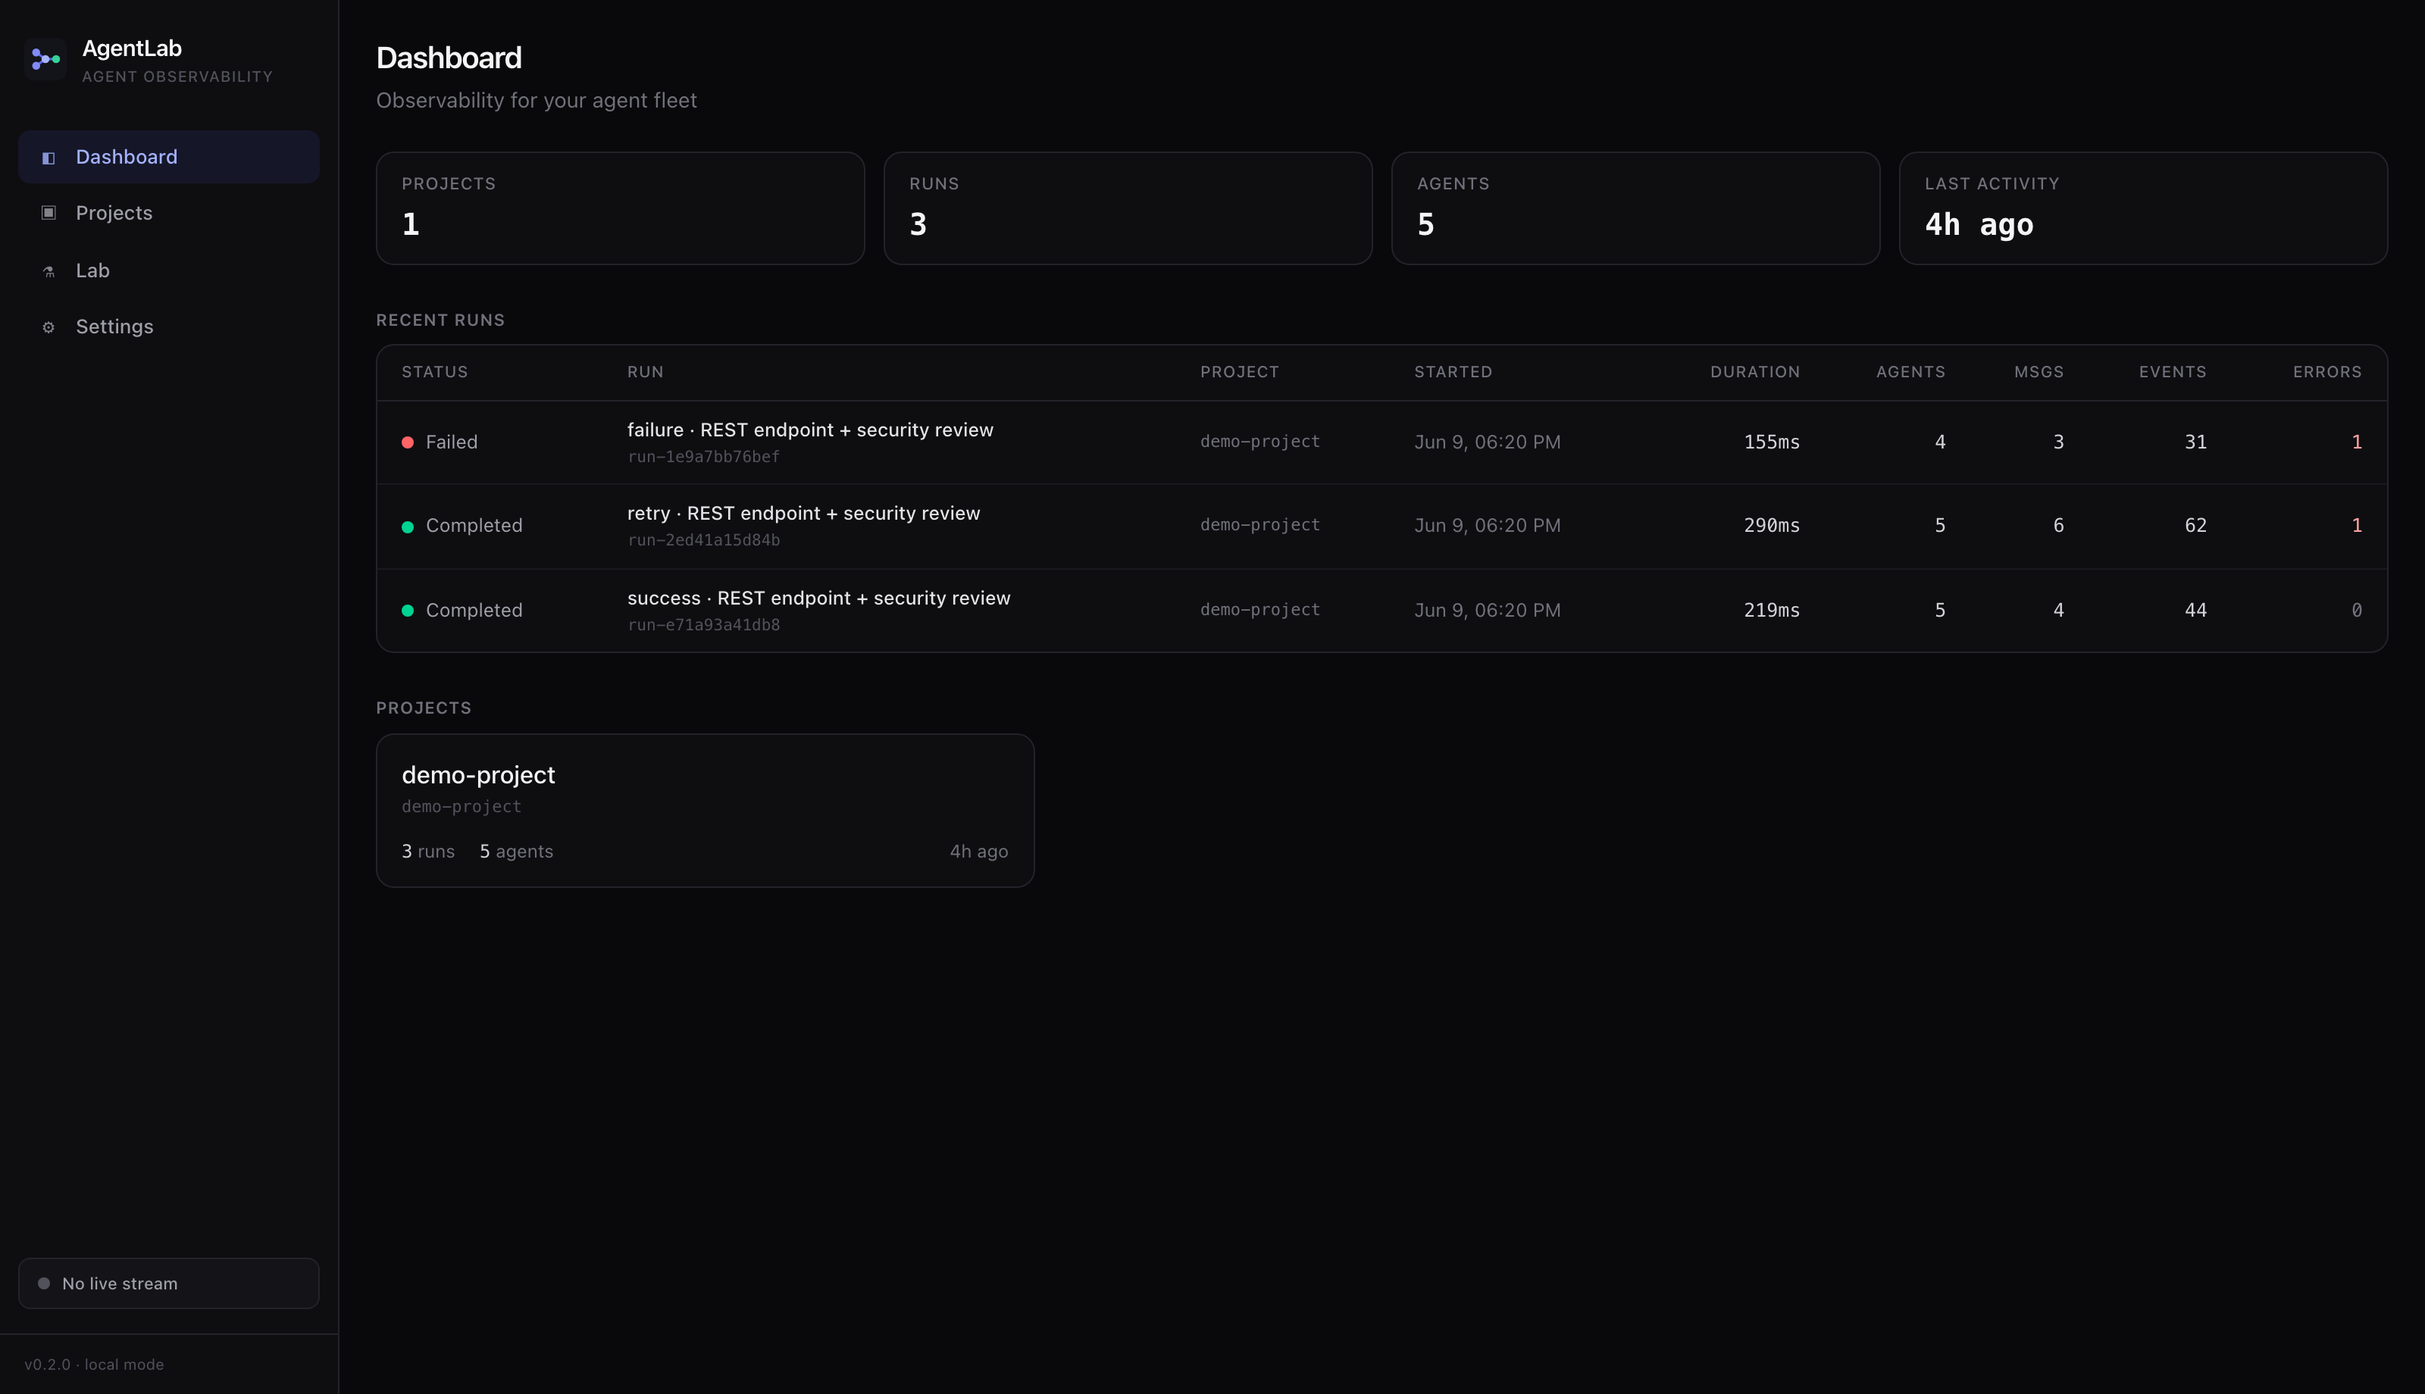
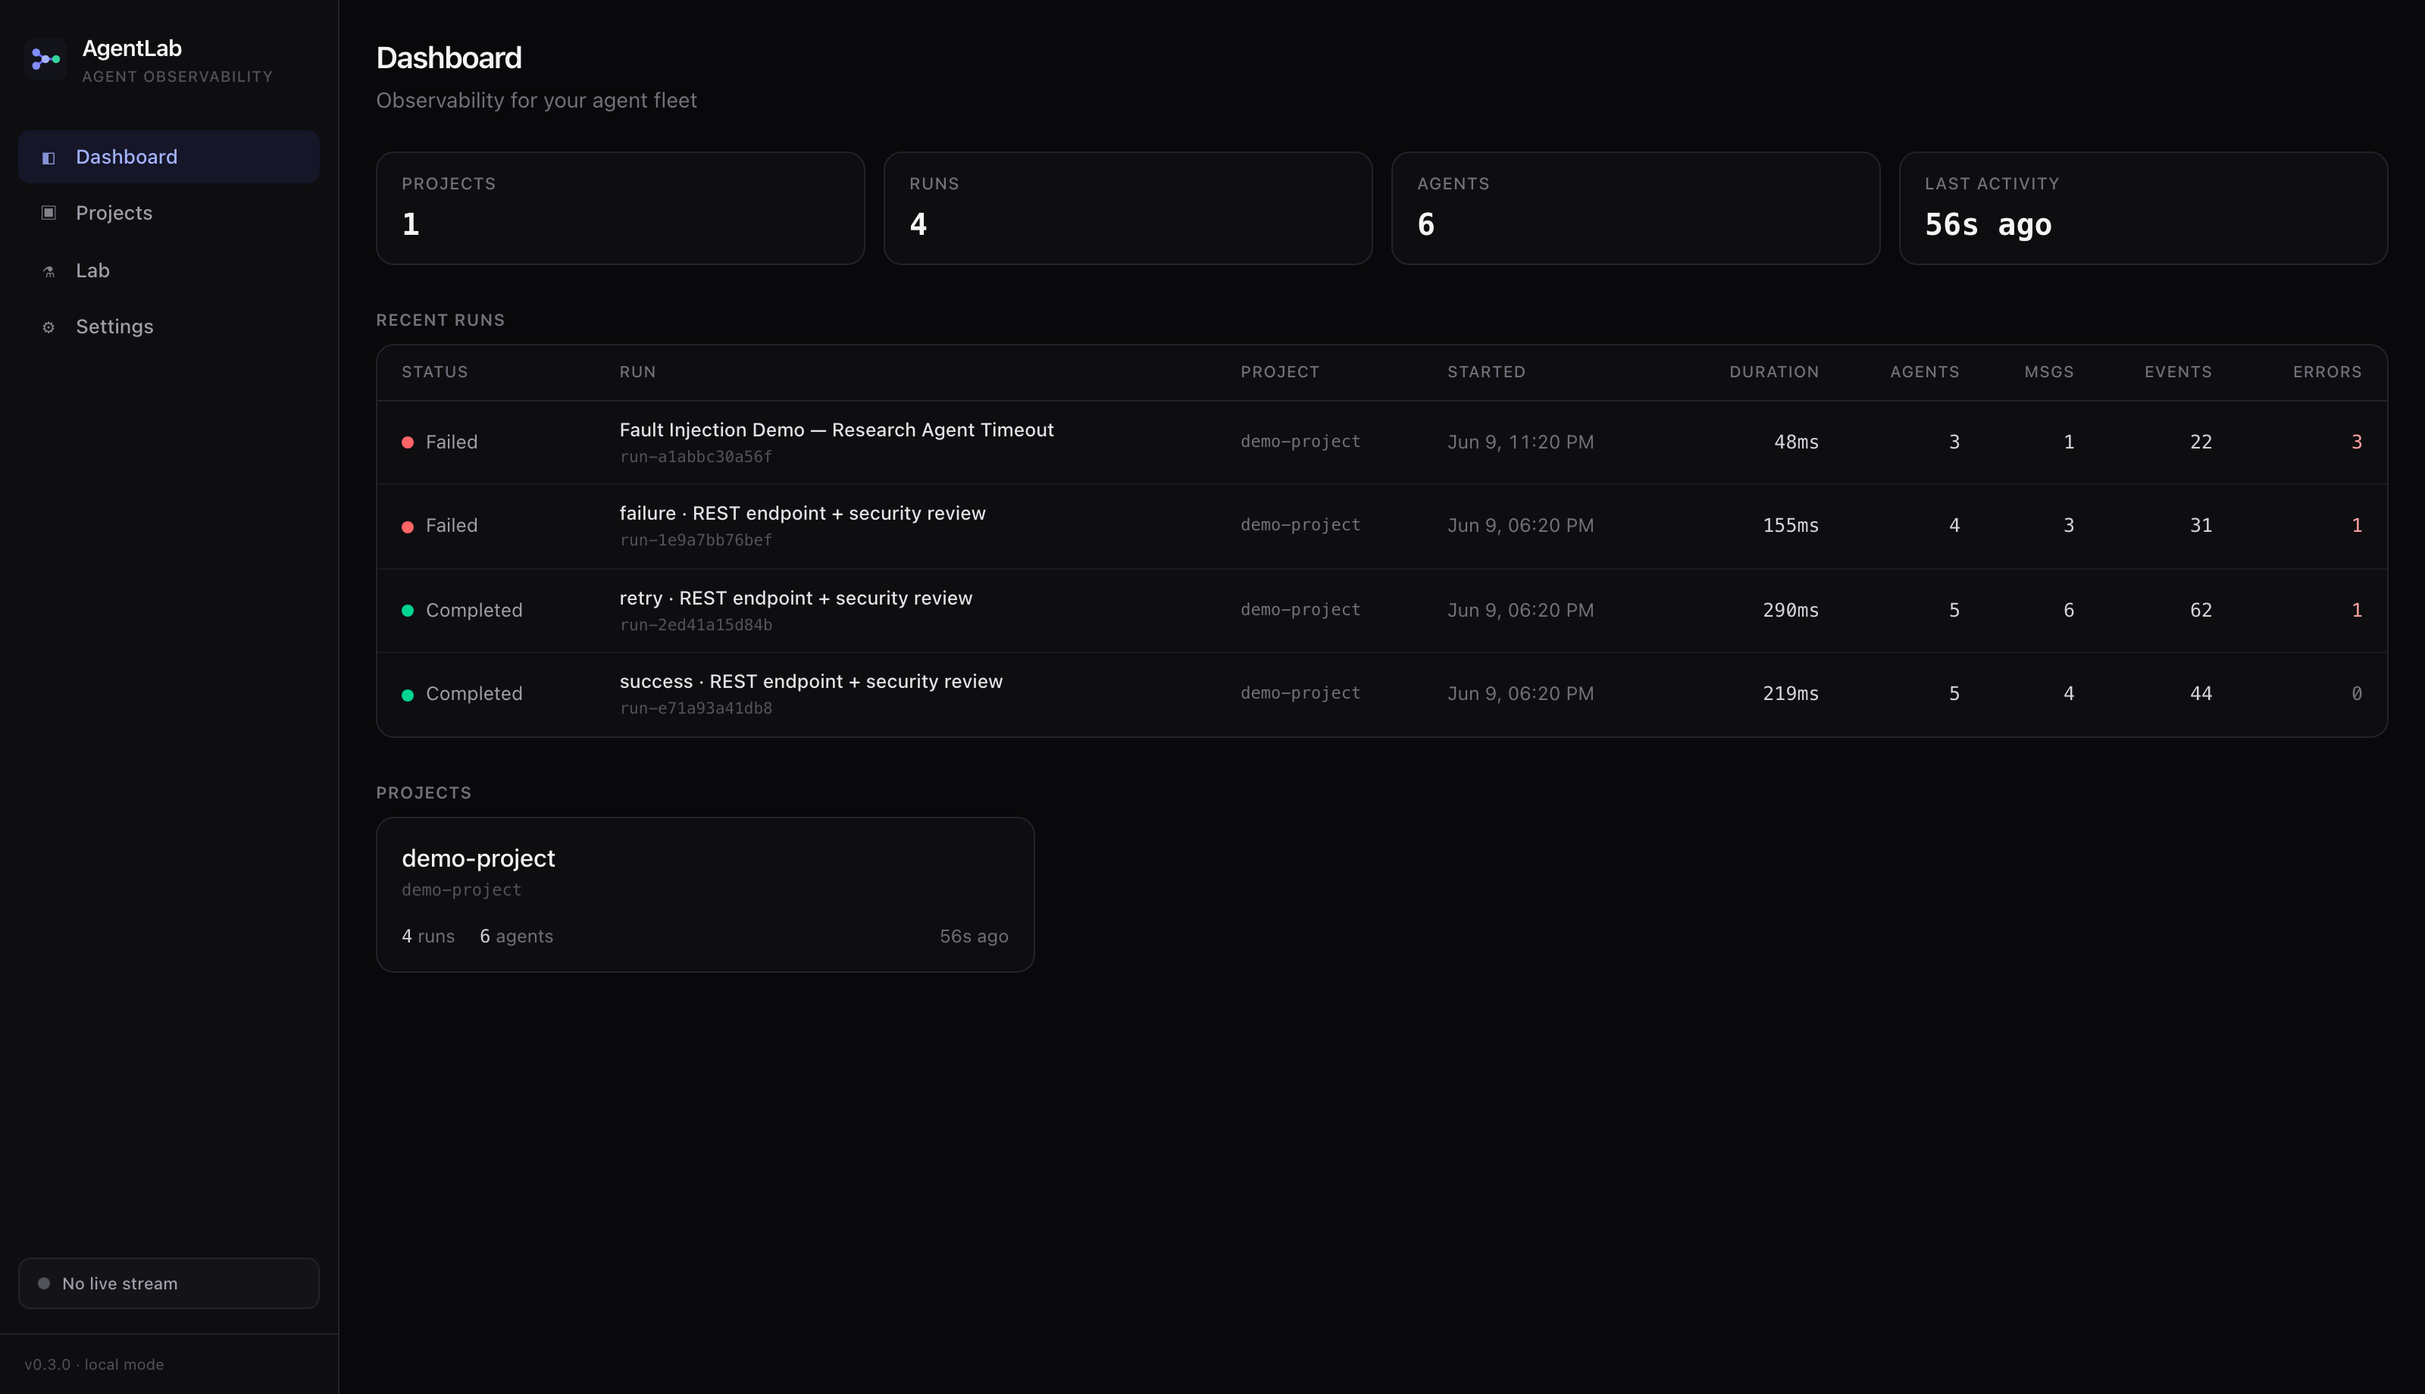
docs(v0.3): Lab Mode shipped — README tour + screenshot, fault matrix in ARCHITECTURE, roadmap renumber
- README: features table, demo tour step 5 (break it yourself), lab-mode
  screenshot, telemetry-simulation limitation, roadmap v0.3 done / v0.4
  malicious-agent sim next
- ARCHITECTURE: shipped Lab section (endpoints, fault->follow-up matrix,
  operator exclusion, safety); attack.injected reserved for v0.4
- ROADMAP: v0.3 complete w/ deferred items; renumber adapters v0.5, teams v0.6
- PRODUCT_SPEC: shipped-in-v0.3 section; competitive table reflects shipped
  replay + fault injection; example README fault scenario row

diff --git a/README.md b/README.md
@@ -6,8 +6,9 @@
 
 A production-style observability and control plane for multi-agent AI systems:
 SDK-based instrumentation, real-time agent topology, message-level inspection,
-run metrics, and a replay debugger that steps through any run like a packet
-capture — with fault injection and trust-aware routing analysis on the roadmap.
+run metrics, a replay debugger that steps through any run like a packet
+capture, and a fault-injection lab for chaos-testing agent systems — with
+malicious-agent simulation and trust-aware routing analysis on the roadmap.
 
 `Python 3.12` · `FastAPI` · `PostgreSQL/SQLite` · `React 18 + TypeScript` · `React Flow` · `WebSockets` · `Docker Compose`
 
@@ -32,7 +33,7 @@ AgentLab treats an agent system the way network engineers treat a network:
 agents are nodes, messages are packets, runs are captures you can open,
 inspect, and (soon) replay.
 
-## What works today (v0.2)
+## What works today (v0.3)
 
 | Capability | Status |
 | --- | --- |
@@ -44,9 +45,9 @@ inspect, and (soon) replay.
 | Wireshark-style inspector — payload/metadata trees, parent↔child event links, raw JSON | ✅ |
 | Run metrics — tokens, cost, avg/p95 latency, error rate, per-agent table, superlatives | ✅ |
 | Demo workflow — 5-agent pipeline (success / retry / failure scenarios), no LLM keys needed | ✅ |
-| Replay debugger — play/pause/step/scrub any run; jump to next error, tool call, or routing decision; topology and inspector reconstruct at every cursor position | ✅ |
-| Fault injection lab + malicious-agent simulation | 🔜 v0.3 |
-| Trust scoring engine + routing analysis | 🔜 v0.3–0.4 |
+| Replay debugger — play/pause/step/scrub any run; jump to next error, tool call, routing decision, or fault; topology and inspector reconstruct at every cursor position | ✅ |
+| Fault injection lab — kill / overload / tool failure / model timeout / message delay / message drop, injected from the UI; graph reacts live, every fault is replayable, all simulated | ✅ |
+| Malicious-agent simulation + trust scoring engine + quarantine | 🔜 v0.4 |
 
 ## Architecture
 
@@ -150,8 +151,17 @@ buffers through collector outages, and becomes a no-op with
 4. **replay it** — open the failed run → **Replay** tab → press ▶ (or scrub /
    arrow keys). The topology rebuilds event by event; hit **Error** to jump
    straight to the crash with the inspector following the playhead.
+5. **break it yourself** — the seeded **Fault Injection Demo — Research Agent
+   Timeout** run shows a Lab-injected model timeout killing the researcher
+   mid-run (`fault.injected → model.failed → agent.failed → run.failed`).
+   Then open **Lab**, pick any run, and inject your own: kill an agent, force
+   a tool failure, drop messages on a channel — the status strip and topology
+   react live, and the **Fault** marker in Replay takes you straight to the
+   moment of injection.
 
 ![Replay debugger: scrubber with markers, reconstructed topology at the failure, inspector following the playhead](docs/screenshots/replay-debugger.png)
+
+![Fault Injection Lab: six simulated fault types with live agent status strip](docs/screenshots/lab-mode.png)
 
 | Fleet dashboard | Message inspector |
 | --- | --- |
@@ -192,7 +202,7 @@ Stated plainly so nobody discovers them the hard way:
   replica. A Redis pub/sub layer is the planned path to horizontal scale.
 - **Auth covers the write path only.** `AGENTLAB_API_KEYS` gates `POST
   /api/events`; the read API and dashboard are open, intended for local/
-  trusted-network use until team auth lands (v0.5).
+  trusted-network use until team auth lands (v0.6).
 - **Trust/risk fallback semantics.** A run's topology shows trust/risk as of
   that run when the run contains `trust.updated`/`risk.updated` events;
   otherwise it falls back to the agent's *current* project-wide score.
@@ -204,6 +214,12 @@ Stated plainly so nobody discovers them the hard way:
   policies yet — the event log grows until you prune it.
 - **Demo telemetry is simulated.** The example pipeline's model calls, token
   counts, and costs are illustrative metadata, not real LLM usage.
+- **Faults are telemetry simulations.** Lab Mode emits events *as if* the
+  failure happened — it does not intercept or control live agent traffic. A
+  "killed" agent's real process keeps running; delay/drop faults synthesize a
+  demonstration message on the channel rather than touching in-flight
+  messages. An SDK control-plane hook (real chaos against the demo workflow)
+  is future work.
 - **Replay tape is a snapshot.** Opening the Replay tab loads the run's events
   once (up to 5,000); a still-running run keeps streaming, but the tape does
   not grow until the tab is reopened.
@@ -216,9 +232,10 @@ Stated plainly so nobody discovers them the hard way:
 
 - **v0.1 — local observability** ✅ instrument → collect → visualize → inspect
 - **v0.2 — replay debugger** ✅ step through any run like a packet capture; jump to error/tool/routing
-- **v0.3 — lab mode**: fault injection (kill/delay/drop/overload) + sandboxed malicious-agent simulations, quarantine flows
-- **v0.4 — framework adapters**: LangGraph, CrewAI, OpenAI Agents SDK, MCP
-- **v0.5 — teams**: project auth, retention, multi-user
+- **v0.3 — fault injection lab** ✅ six simulated fault types, injectable from the UI, replayable
+- **v0.4 — malicious-agent simulation**: sandboxed attack scenarios, trust engine, quarantine flows
+- **v0.5 — framework adapters**: LangGraph, CrewAI, OpenAI Agents SDK, MCP
+- **v0.6 — teams**: project auth, retention, multi-user
 - **v1.0 — hosted platform**
 
 ## License

diff --git a/ARCHITECTURE.md b/ARCHITECTURE.md
@@ -69,7 +69,8 @@ tool.{called,completed,failed}
 model.{called,completed,failed}
 routing.decision
 trust.updated · risk.updated
-fault.injected · attack.injected        (accepted now, emitted by Lab Mode in v0.3)
+fault.injected                          (Lab Mode, v0.3)
+attack.injected                         (reserved for v0.4 malicious-agent simulation)
 ```
 
 Unknown types are rejected (422). The registry lives in
@@ -228,15 +229,56 @@ tracking. The topology component is reused unchanged — nodes appear and change
 state as the cursor advances, and the timeline shows exactly the applied
 prefix of the tape.
 
-## Lab mode (v0.3 design sketch)
+## Lab mode (v0.3 — shipped)
 
-- API gains `POST /api/lab/faults` which *emits events* (`fault.injected`,
-  `agent.quarantined`, `trust.updated`) into a run rather than mutating state
-  directly — the same pipeline renders them.
-- Faults against the demo workflow run in-process (the seeder polls a control
-  endpoint); real instrumented apps opt in via an SDK hook.
-- Malicious-agent scenarios are pre-scripted event sequences over mock data —
-  no real attacks, no real secrets (see Safety in [PRODUCT_SPEC.md](PRODUCT_SPEC.md)).
+Fault injection is *telemetry simulation through the normal pipeline*: a fault
+emits a `fault.injected` event plus realistic follow-up events, so storage,
+projections, WebSocket fan-out, the topology, metrics, and replay all react
+without any special-casing.
+
+**Endpoints**
+
+```
+GET  /api/lab/fault-templates      → 6 templates (label, target kind, params, emitted events)
+POST /api/runs/{id}/faults         → validate + emit fault & follow-ups (auth-gated, WS broadcast)
+GET  /api/runs/{id}/faults         → fault history for a run
+```
+
+**Fault → follow-up matrix** (`app/lab.py`)
+
+| fault_type | target | follow-up events | visible effect |
+| --- | --- | --- | --- |
+| `kill_agent` | agent | `agent.failed` | node turns failed, error count up |
+| `overload_agent` | agent | `agent.heartbeat{status: overloaded}` | node turns overloaded |
+| `force_tool_failure` | agent | `tool.called` + `tool.failed` | tool failure in timeline/metrics |
+| `simulate_model_timeout` | agent | `model.called` + `model.failed` | model failure, latency = timeout |
+| `delay_messages` | channel | `message.sent` + delayed `message.received` | edge latency spikes; "sent" state visible mid-replay |
+| `drop_messages` | channel | `message.sent` + `message.failed` | edge turns failed |
+
+Validation: the fault type must be known, the victim (and channel source)
+must be participants of the target run; injection is allowed into completed
+runs (chaos-testing recorded workflows is the point — events append to the
+tape). Every lab event carries `metadata.safe_simulation: true`,
+`metadata.created_by: "lab"`, and follow-ups link back via
+`metadata.fault_event_id`.
+
+**The operator is not a participant.** Fault events use
+`source_agent_id: "lab-controller"`, but graph/metrics/replay folds skip
+lab events when collecting participants, so the controller never appears as a
+workflow node. Replay marks fault indices in `markers.faults` (rose dots +
+a dedicated jump button).
+
+**Safety:** nothing in Lab Mode kills processes, drops real network traffic,
+or touches secrets — a "fault" is the *telemetry* of a failure, generated
+deterministically. Intercepting real agent traffic via an SDK control-plane
+hook is explicitly future work.
+
+## Malicious-agent simulation (v0.4 design sketch)
+
+Pre-scripted `attack.injected` event sequences over mock data only (prompt
+injection messages, fake capability advertising, mock exfiltration attempts),
+driving the trust engine and `agent.quarantined` flows. No real attacks, no
+real secrets (see Safety in [PRODUCT_SPEC.md](PRODUCT_SPEC.md)).
 
 ## Testing
 

diff --git a/ROADMAP.md b/ROADMAP.md
@@ -27,27 +27,39 @@ Open any run like a packet capture.
 - Deferred to a later cut: snapshot memoization for very large tapes; live
   tape growth while a run is still streaming
 
-## v0.3 — Lab mode (fault injection + security simulation)
+## v0.3 — Fault Injection Lab ✅
 
-Chaos engineering for agent systems — all simulated, mock data only.
+Chaos engineering for agent systems — all simulated, telemetry only.
 
-- Fault API emitting `fault.injected` events: kill_agent, delay_messages,
-  drop_messages, corrupt_message, increase_latency, force_tool_failure,
-  simulate_model_timeout, overload_agent
-- Malicious-agent scenarios: prompt-injection message, fake capability
-  advertising, mock data-exfiltration attempt, trust poisoning, spam flood
+- 6 fault types via `POST /runs/{id}/faults`: kill_agent, overload_agent,
+  force_tool_failure, simulate_model_timeout, delay_messages, drop_messages
+- Each fault = `fault.injected` + realistic follow-up events through the
+  normal pipeline (graph, metrics, WS, replay all react for free)
+- Functional Lab UI: project/run pickers, live agent-status strip, template
+  cards with targets + params, fault log with raw payloads
+- Replay integration: `markers.faults`, rose scrubber dots, Fault jump button
+- Seeded scenario: "Fault Injection Demo — Research Agent Timeout"
+- Safety: simulation-only (`safe_simulation: true` end to end); no real
+  process/network/secret interaction
+- Deferred: `corrupt_message` / `increase_latency` variants; an SDK
+  control-plane hook so faults can intercept *live* demo traffic
+
+## v0.4 — Malicious-agent simulation + trust engine (pending approval)
+
+- Sandboxed `attack.injected` scenarios over mock data: prompt-injection
+  message, fake capability advertising, mock data-exfiltration attempt,
+  trust poisoning, spam flood
 - Trust scoring engine: event-driven score updates with reasons
 - Quarantine flow: trust threshold → `agent.quarantined` → topology + routing react
-- Lab UI activates (controls are stubbed in v0.1)
 
-## v0.4 — Framework integrations
+## v0.5 — Framework integrations
 
 - Adapters: LangGraph, CrewAI, OpenAI Agents SDK, MCP servers
 - Auto-instrumentation where the framework exposes callbacks/middleware
 - OpenTelemetry span export (interop with existing tracing stacks)
-- Alembic migrations (first post-v0.1 schema change lands with this)
+- Alembic migrations (lands with the first relational schema change)
 
-## v0.5 — Teams & projects
+## v0.6 — Teams & projects
 
 - Real API-key management per project, scoped tokens
 - Multi-user access, basic roles
@@ -65,8 +77,9 @@ Chaos engineering for agent systems — all simulated, mock data only.
 
 ### Engineering debt ledger (tracked honestly)
 
-- Alembic migrations deferred until the first schema change (v0.4)
-- Read API is unauthenticated in local mode (auth lands v0.5)
+- Alembic migrations deferred until the first relational schema change
+  (v0.3 added no tables — faults are events)
+- Read API is unauthenticated in local mode (auth lands v0.6)
 - Replay folds from scratch per cursor move (snapshot memoization when tapes
   get large); replay tape doesn't grow live for still-running runs
 - Dashboard bundle could code-split React Flow / Recharts routes

diff --git a/examples/basic_multi_agent/README.md b/examples/basic_multi_agent/README.md
@@ -18,6 +18,7 @@ are simulated, but every event flowing to AgentLab is real.
 | `success` | Clean linear run                                                              |
 | `retry`   | A `web.search` tool call times out and is retried; security review finds an issue and bounces a fix back to the coder (back-edge in the topology) |
 | `failure` | The security reviewer crashes → `agent.failed` → `run.failed`, trust drops    |
+| `fault`   | **Fault Injection Demo — Research Agent Timeout**: Lab Mode injects a simulated model timeout (`fault.injected` → `model.failed` → `agent.failed` → `run.failed`); jump to it with the Fault marker in Replay |
 
 ## Run it
 
